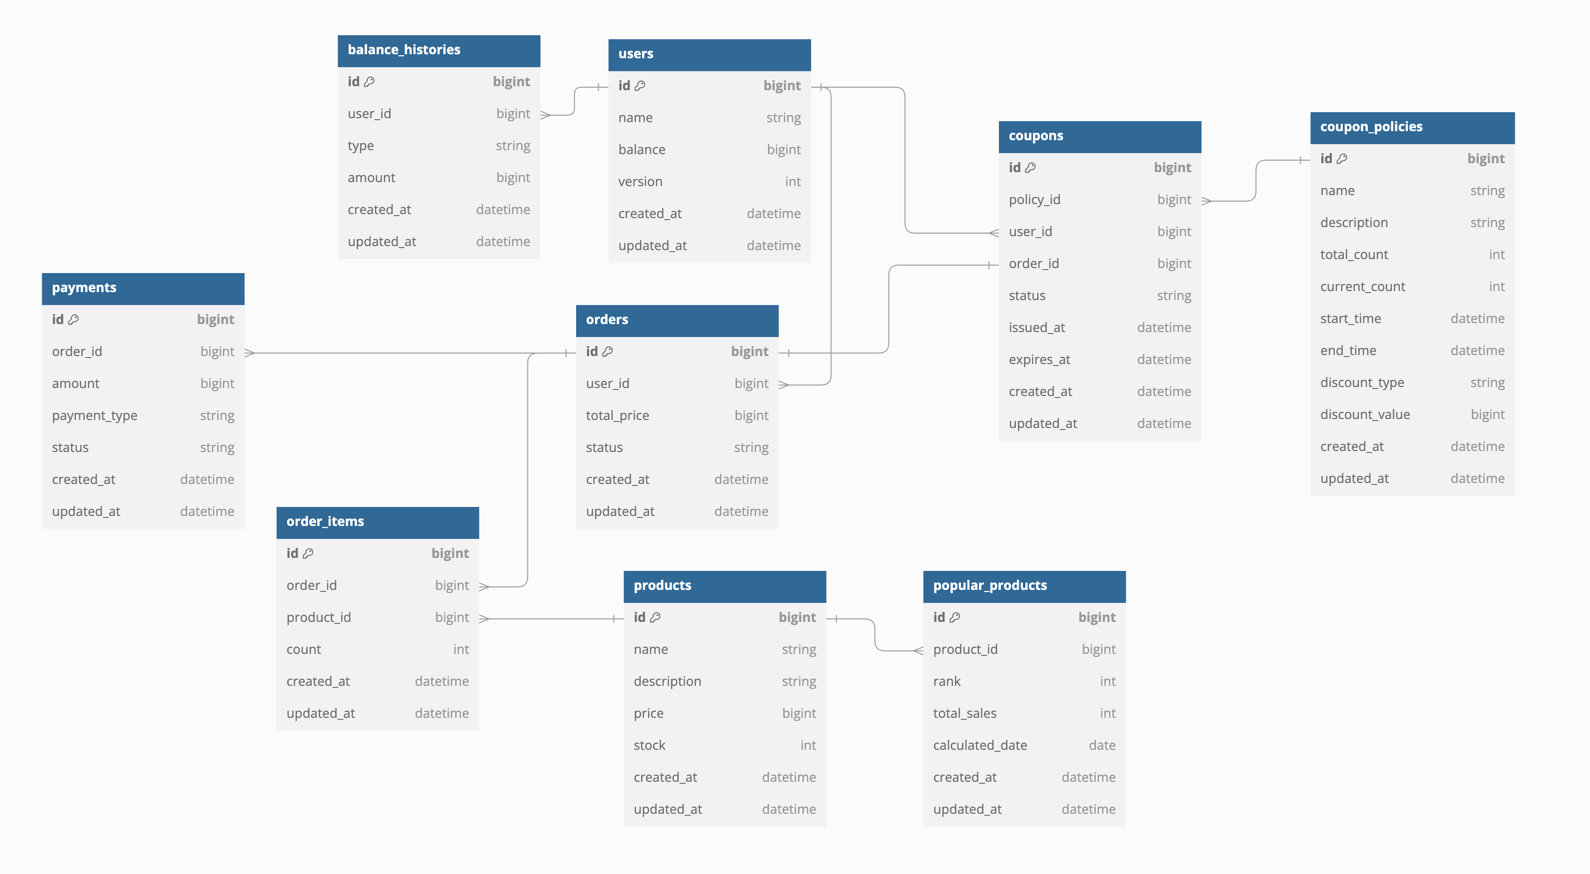
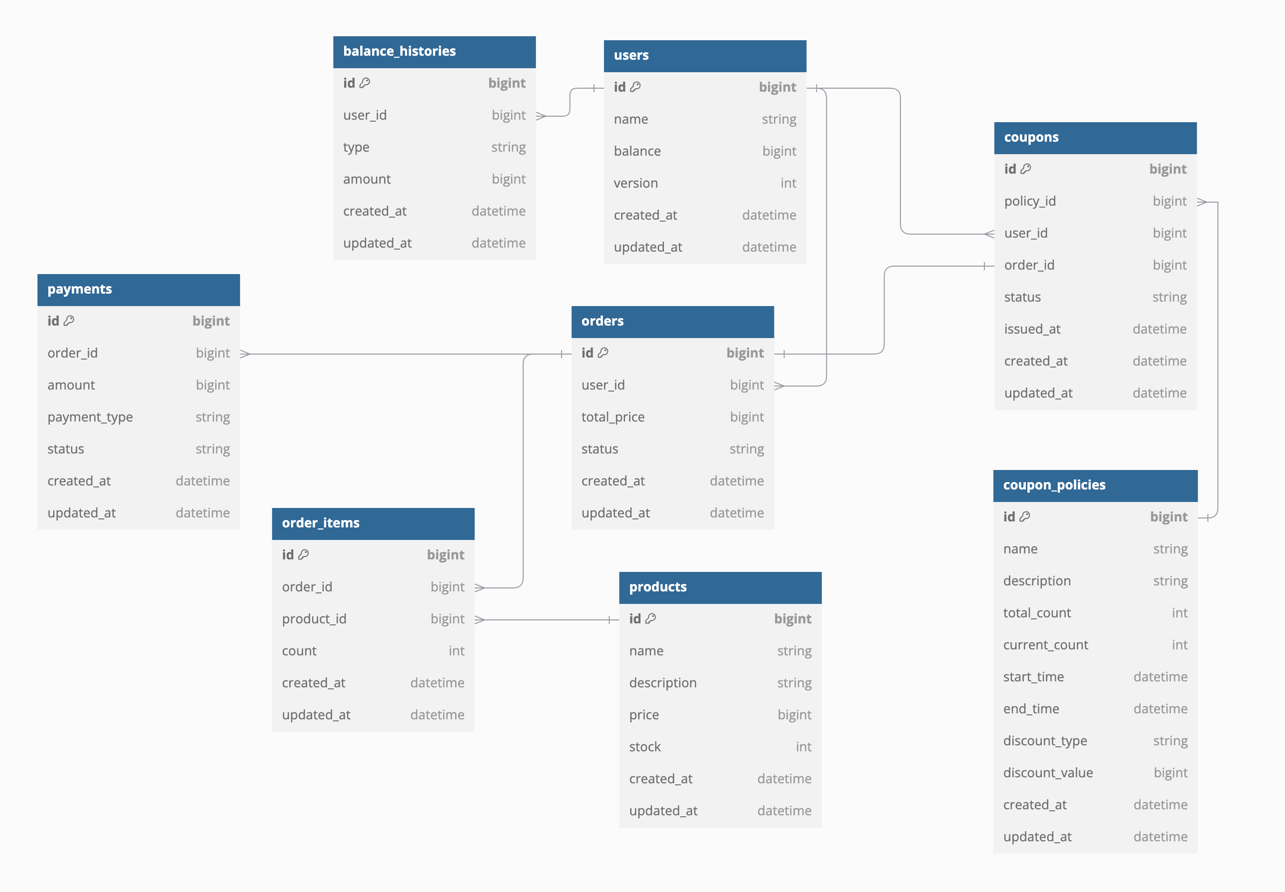
:recycle: refactor : 요구사항 단순화를 위한 쿠폰의 만료 여부 제거

diff --git a/src/main/kotlin/kr/hhplus/be/server/api/coupon/response/CouponResponse.kt b/src/main/kotlin/kr/hhplus/be/server/api/coupon/response/CouponResponse.kt
@@ -2,7 +2,6 @@ package kr.hhplus.be.server.api.coupon.response
 
 import kr.hhplus.be.server.domain.coupon.CouponDiscountType
 import kr.hhplus.be.server.domain.coupon.CouponStatus
-import java.time.LocalDateTime
 
 data class CouponResponse(
     val id: Long,
@@ -12,8 +11,6 @@ data class CouponResponse(
     val discountType: CouponDiscountType,
     val discountValue: Int,
     val status: CouponStatus,
-    val issuedAt: LocalDateTime,
-    val expiresAt: LocalDateTime,
 )
 
 data class CouponsResponse(

diff --git a/src/main/kotlin/kr/hhplus/be/server/domain/coupon/CouponStatus.kt b/src/main/kotlin/kr/hhplus/be/server/domain/coupon/CouponStatus.kt
@@ -2,7 +2,6 @@ package kr.hhplus.be.server.domain.coupon
 
 enum class CouponStatus {
     ACTIVE,
-    EXPIRED,
     USED,
     CANCELLED,
 }

diff --git a/docs/ERD.md b/docs/ERD.md
@@ -1,5 +1,6 @@
 # ERD
-![img_1.png](../image/erd.png)
+
+![img.png](../image/erd.png)
 ## users
 - 사용자 정보를 저장하는 테이블
 - 이름, 잔액을 저장한다.
@@ -37,7 +38,7 @@
 
 ## coupon_policies
 - 쿠폰 정책 정보를 저장하는 테이블
-- 쿠폰 이름, 쿠폰 설명, 쿠폰 총 개수, 쿠폰 발급 개수, 쿠폰 발급 가능 일자, 쿠폰 발급 만료 일자, 쿠폰 할인 타입, 쿠폰 할인 값을 저장한다.
+- 쿠폰 이름, 쿠폰 설명, 쿠폰 총 개수, 쿠폰 발급 개수, 쿠폰 할인 타입, 쿠폰 할인 값을 저장한다.
 - 쿠폰 할인 타입은 금액, 비율로 나뉜다.
 - 쿠폰 발급 개수는 총 개수를 넘을 수 없습니다.
 - 쿠폰 발급 개수는 동시성 문제를 회피하기 위해 비관적락을 사용합니다.

diff --git a/docs/SequenceDiagram.md b/docs/SequenceDiagram.md
@@ -188,9 +188,9 @@ sequenceDiagram
     else 쿠폰 내 것이 아님
         Coupon -->> OrderAPI: 예외 발생
         OrderAPI -->> User: "쿠폰 소유자가 아닙니다"
-    else 쿠폰 만료됨 또는 이미 사용됨
+    else 쿠폰 이미 사용됨
         Coupon -->> OrderAPI: 예외 발생
-        OrderAPI -->> User: "쿠폰이 만료되었거나 이미 사용되었습니다"
+        OrderAPI -->> User: "쿠폰이 이미 사용되었습니다"
     else 쿠폰 유효
         Coupon -->> OrderAPI: 쿠폰 확인 완료
         OrderAPI ->> Product: 상품 존재 여부 확인
